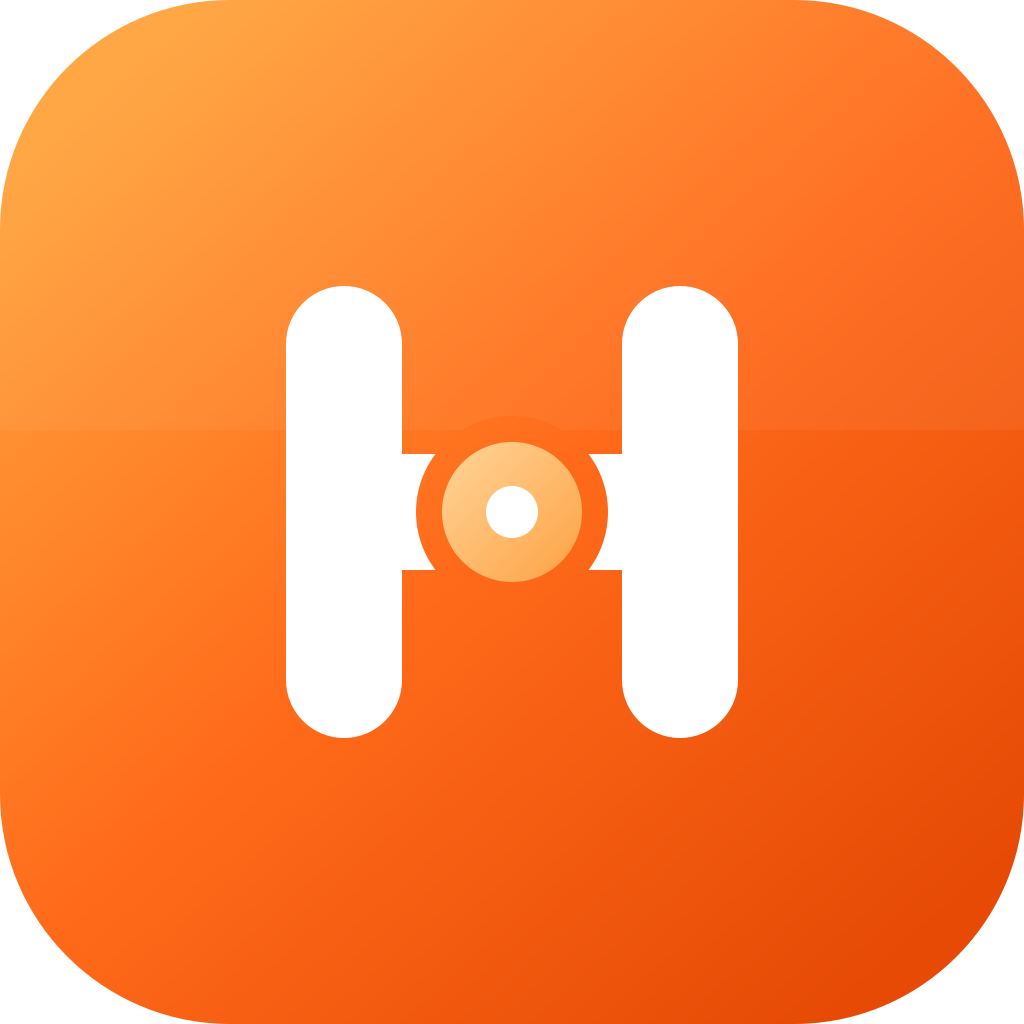
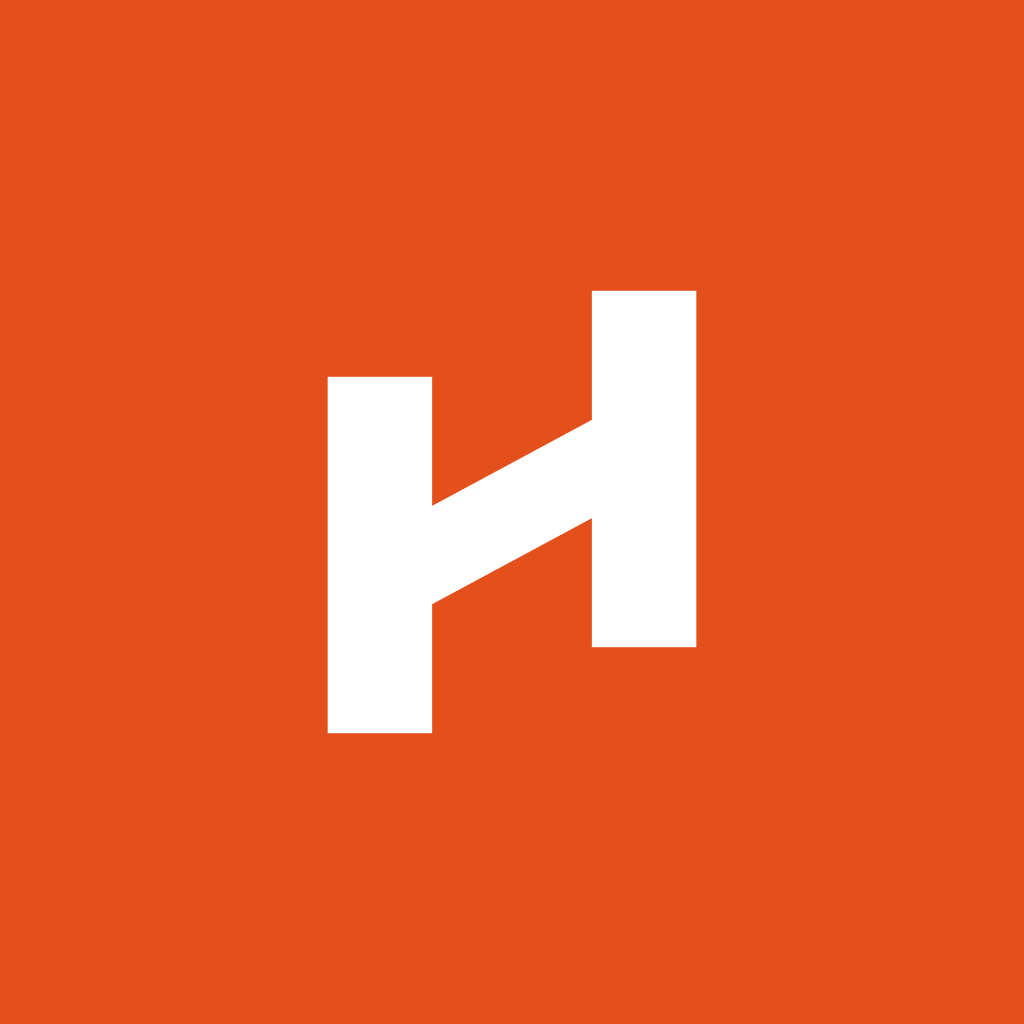
feat(brand): new Harman mark - stepped H, brand orange in both themes
Web header uses the same mark as the favicon and the app icons instead of a
theme-inverted Bot glyph (which rendered as a black tile in light mode).

diff --git a/web/src/components/Header.tsx b/web/src/components/Header.tsx
@@ -1,6 +1,5 @@
 import { useEffect, useState } from "react"
 import {
-  Bot,
   ChevronDown,
   Moon,
   Sun,
@@ -258,9 +257,11 @@ export function Header() {
 function Brand({ compact = false }: { compact?: boolean }) {
   return (
     <div className="flex items-center gap-2 font-semibold">
-      <div className="flex size-6 items-center justify-center rounded-md bg-primary text-primary-foreground">
-        <Bot className="size-3.5" />
-      </div>
+      {/* Same mark as public/favicon.svg and the app icon: brand colour in both themes. */}
+      <svg viewBox="0 0 100 100" className="size-6 shrink-0" aria-hidden>
+        <rect width="100" height="100" rx="22" fill="#E4501C" />
+        <path transform="translate(50 50) scale(.66) translate(-50 -50)" fill="#fff" d="M20 28H37V49L63 35V14H80V72H63V51L37 65V86H20Z" />
+      </svg>
       <span className={compact ? "hidden text-sm sm:inline" : "text-sm"}>Harman</span>
     </div>
   )
